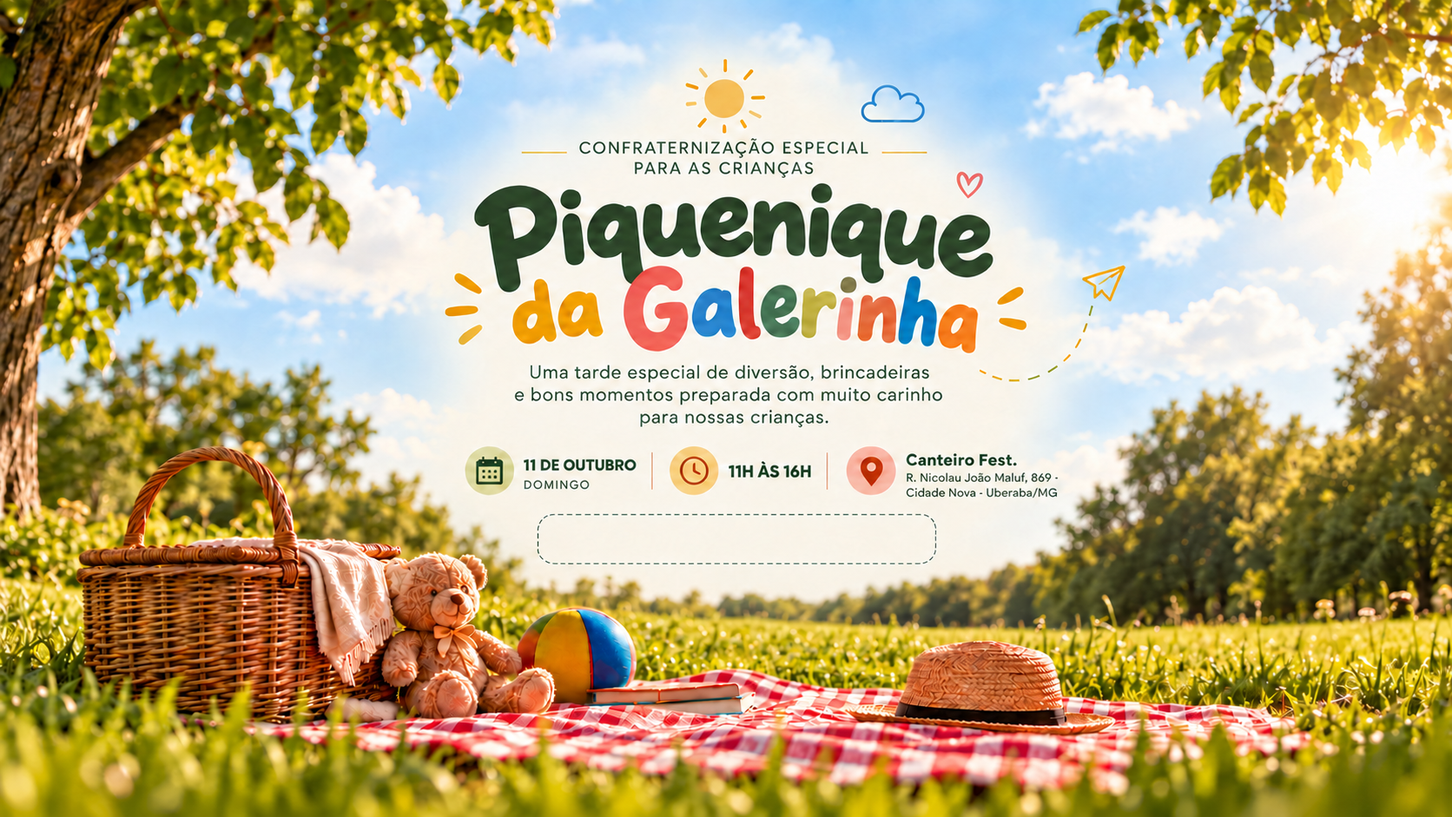
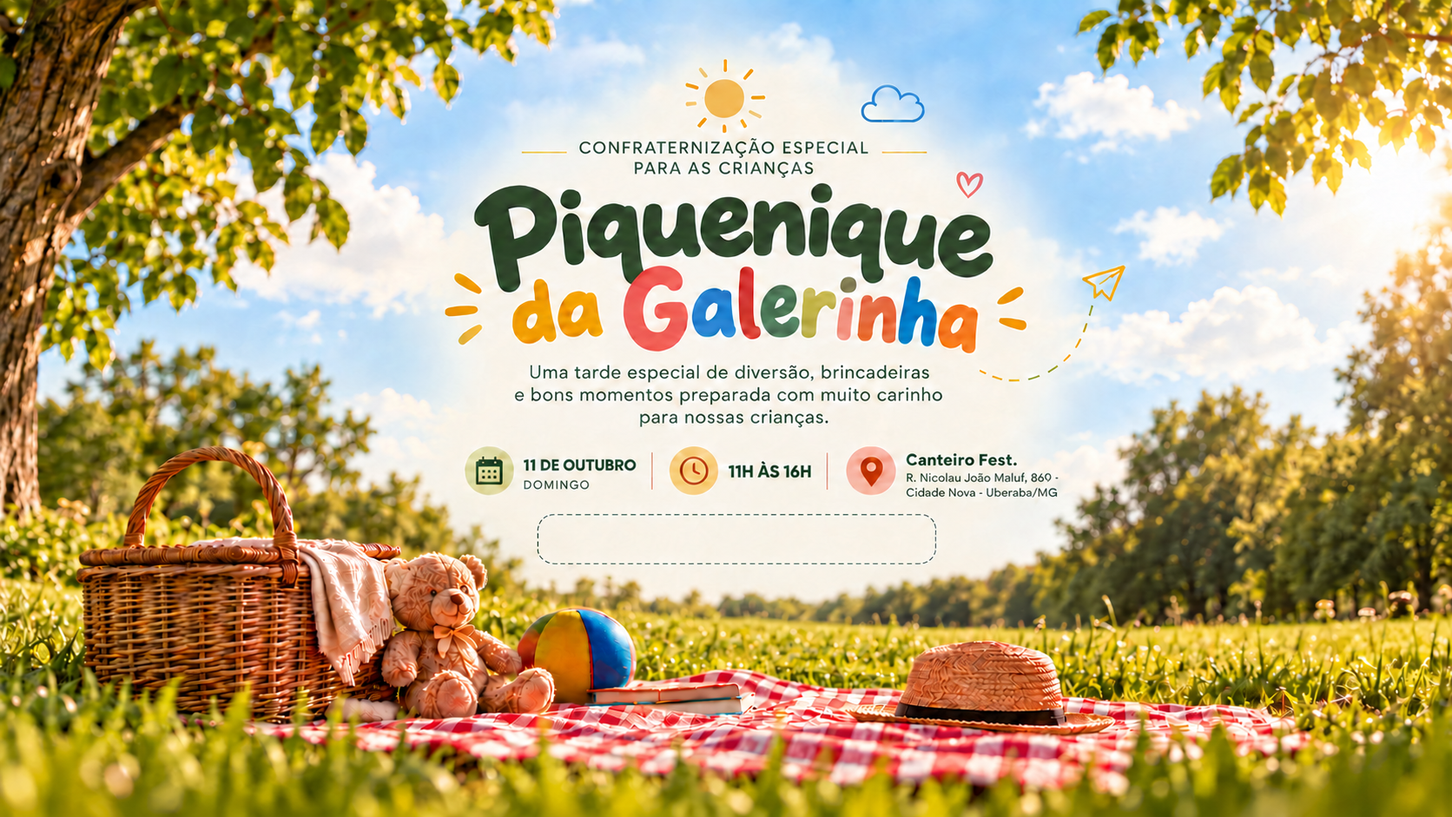
Add files via upload

diff --git a/admin.html b/admin.html
@@ -7,48 +7,163 @@
   <title>Admin | Piquenique da Galerinha</title>
   <link rel="preconnect" href="https://fonts.googleapis.com">
   <link rel="preconnect" href="https://fonts.gstatic.com" crossorigin>
-  <link href="https://fonts.googleapis.com/css2?family=Inter:wght@400;500;600;700;800&amp;family=Nunito:wght@700;800;900&amp;display=swap" rel="stylesheet">
+  <link href="https://fonts.googleapis.com/css2?family=Inter:wght@400;500;600;700&amp;display=swap" rel="stylesheet">
   <style>
     :root{--green:#235b31;--green2:#3c8346;--cream:#fff8e9;--ink:#173b22;--muted:#6d7d70;--line:#dfe8db;--surface:#fffdf8}
-    *{box-sizing:border-box}body{margin:0;min-height:100dvh;background:radial-gradient(circle at 0 0,#fff4ce,transparent 28%),linear-gradient(145deg,#f7f8f0,#eef4e9);color:var(--ink);font-family:Inter,system-ui,sans-serif}
-    button,input{font:inherit}button{cursor:pointer}.page{width:min(1120px,calc(100% - 32px));margin:auto;padding:34px 0 50px}
-    header{display:flex;align-items:center;justify-content:space-between;gap:18px;margin-bottom:25px}.eyebrow{margin:0 0 6px;color:var(--green2);font-size:11px;font-weight:900;letter-spacing:.14em;text-transform:uppercase}h1{margin:0;font:900 clamp(28px,4vw,42px)/1 Nunito,sans-serif}.subtitle{margin:8px 0 0;color:var(--muted);font-size:14px}
-    .export{min-height:44px;padding:0 17px;border:0;border-radius:12px;background:var(--green);color:#fff;font:900 13px Nunito,sans-serif;box-shadow:0 9px 22px rgba(35,91,49,.18)}
-    .stats{display:grid;grid-template-columns:repeat(3,1fr);gap:12px;margin-bottom:18px}.stat{padding:18px;border:1px solid rgba(35,91,49,.08);border-radius:18px;background:rgba(255,253,248,.9);box-shadow:0 10px 30px rgba(35,91,49,.06)}.stat strong{display:block;font:900 32px Nunito,sans-serif;color:var(--green)}.stat span{color:var(--muted);font-size:11px;font-weight:800;text-transform:uppercase;letter-spacing:.08em}
-    .panel{padding:20px;border:1px solid rgba(35,91,49,.09);border-radius:22px;background:var(--surface);box-shadow:0 18px 55px rgba(35,91,49,.08)}
-    .add{display:grid;grid-template-columns:1fr 1fr auto;gap:10px;margin-bottom:18px}.add input{min-width:0;height:48px;padding:0 14px;border:1px solid var(--line);border-radius:12px;background:#fff;outline:0}.add input:focus{border-color:#81a67b;box-shadow:0 0 0 4px rgba(60,131,70,.1)}.add button{padding:0 18px;border:0;border-radius:12px;background:linear-gradient(135deg,var(--green2),var(--green));color:#fff;font:900 13px Nunito,sans-serif}
-    .toolbar{display:flex;align-items:center;justify-content:space-between;gap:12px;margin-bottom:12px}.toolbar h2{margin:0;font:900 20px Nunito,sans-serif}.filter{height:38px;border:1px solid var(--line);border-radius:10px;background:#fff;padding:0 10px;color:var(--ink)}
-    .list{display:grid;gap:8px}.row{display:grid;grid-template-columns:minmax(0,1.2fr) minmax(0,1fr) auto auto;align-items:center;gap:12px;padding:13px;border:1px solid #e7ede3;border-radius:14px;background:#fff}.row strong,.row small{display:block}.row small{margin-top:3px;color:var(--muted);font-size:10px}.status{padding:7px 9px;border-radius:999px;font-size:9px;font-weight:900;text-transform:uppercase}.confirmed{background:#e0f0dc;color:#276037}.pending{background:#fff0bd;color:#78580a}.action{border:0;border-radius:10px;padding:8px 10px;background:#edf4e8;color:var(--green);font-weight:800;font-size:10px}.empty{text-align:center;color:var(--muted);padding:35px 12px}
-    button:focus-visible,input:focus-visible,select:focus-visible{outline:3px solid rgba(244,179,33,.55);outline-offset:2px}
-    @media(max-width:700px){.page{width:min(100% - 20px,560px);padding-top:20px}header{align-items:flex-start}.export{padding:0 12px}.stats{gap:7px}.stat{padding:13px}.stat strong{font-size:25px}.add{grid-template-columns:1fr}.add button{min-height:44px}.panel{padding:14px}.row{grid-template-columns:minmax(0,1fr) auto}.row>div:nth-child(2){grid-column:1}.status{grid-column:2;grid-row:1}.action{grid-column:2;grid-row:2}}
+    *{box-sizing:border-box}body{margin:0;min-height:100dvh;background:radial-gradient(circle at 0 0,#fff4ce,transparent 28%),linear-gradient(145deg,#f7f8f0,#eef4e9);color:var(--ink);font-family:Inter,system-ui,sans-serif;font-weight:400;-webkit-font-smoothing:antialiased}
+    button,input{font:inherit}button{cursor:pointer}.page{width:min(1040px,calc(100% - 40px));margin:auto;padding:36px 0 52px}
+    header{position:relative;display:flex;align-items:center;justify-content:center;gap:20px;margin-bottom:24px;text-align:center}.header-copy{max-width:680px}.eyebrow{margin:0 0 7px;color:var(--green2);font-size:11px;font-weight:600;letter-spacing:.13em;text-transform:uppercase}h1{margin:0;font-size:clamp(28px,4vw,38px);line-height:1.15;font-weight:600;letter-spacing:-.035em}.subtitle{margin:9px 0 0;color:var(--muted);font-size:14px;line-height:1.55}
+    .stats{display:grid;grid-template-columns:repeat(2,minmax(0,1fr));gap:14px;max-width:780px;margin:0 auto 18px}.stat{min-height:98px;display:grid;place-content:center;text-align:center;gap:5px;padding:16px;border:1px solid rgba(35,91,49,.08);border-radius:16px;background:rgba(255,253,248,.92);box-shadow:0 8px 24px rgba(35,91,49,.05)}.stat strong{display:block;color:var(--green);font-size:30px;line-height:1.1;font-weight:600;font-variant-numeric:tabular-nums}.stat span{color:var(--muted);font-size:10px;font-weight:600;text-transform:uppercase;letter-spacing:.09em}
+    .panel{padding:22px;border:1px solid rgba(35,91,49,.09);border-radius:20px;background:var(--surface);box-shadow:0 16px 44px rgba(35,91,49,.07)}
+    .add{display:grid;grid-template-columns:minmax(0,1fr) minmax(0,1fr) auto;gap:10px;margin-bottom:22px}.add input{min-width:0;height:48px;padding:0 14px;border:1px solid var(--line);border-radius:11px;background:#fff;color:var(--ink);font-size:14px;outline:0}.add input::placeholder{color:#7c877e}.add input:focus{border-color:#81a67b;box-shadow:0 0 0 4px rgba(60,131,70,.1)}.add button{min-height:48px;padding:0 17px;border:0;border-radius:11px;background:linear-gradient(135deg,var(--green2),var(--green));color:#fff;font-size:13px;font-weight:600}
+    .toolbar{display:flex;align-items:center;justify-content:center;margin-bottom:12px;text-align:center}.toolbar h2{margin:0;font-size:19px;font-weight:600;letter-spacing:-.02em}
+    .list{display:grid;gap:9px}.row{display:grid;grid-template-columns:minmax(0,1.1fr) minmax(0,1fr) auto auto;align-items:center;gap:14px;padding:14px 16px;border:1px solid #e7ede3;border-radius:13px;background:#fff}.row strong,.row small{display:block}.row strong{font-size:14px;font-weight:500;line-height:1.4;overflow-wrap:anywhere}.row small{margin-top:4px;color:var(--muted);font-size:11px;line-height:1.4}.status{padding:7px 9px;border-radius:999px;font-size:9px;font-weight:600;text-transform:uppercase;letter-spacing:.035em;white-space:nowrap}.confirmed{background:#e0f0dc;color:#276037}.pending{background:#fff0bd;color:#78580a}.action{min-height:34px;border:0;border-radius:9px;padding:0 11px;background:#edf4e8;color:var(--green);font-weight:500;font-size:11px;white-space:nowrap}.empty{text-align:center;color:var(--muted);padding:35px 12px;font-size:14px}
+    button:focus-visible,input:focus-visible{outline:3px solid rgba(244,179,33,.55);outline-offset:2px}
+    @media(max-width:700px){.page{width:min(100% - 24px,560px);padding:24px 0 36px}header{display:grid;gap:12px;margin-bottom:20px}.subtitle{font-size:13px}.stats{gap:9px;margin-bottom:14px}.stat{min-height:86px;padding:12px}.stat strong{font-size:26px}.panel{padding:16px;border-radius:17px}.add{grid-template-columns:1fr;gap:9px;margin-bottom:20px}.add input{height:46px}.add button{min-height:46px}.row{grid-template-columns:minmax(0,1fr) auto;gap:10px 12px;padding:13px}.row>div:nth-child(2){grid-column:1}.status{grid-column:2;grid-row:1;justify-self:end}.action{grid-column:2;grid-row:2;justify-self:end}}
+    @media(max-width:360px){.page{width:calc(100% - 18px)}.stat{padding:10px}.panel{padding:12px}.row{gap:9px;padding:11px}.action{padding:0 8px;font-size:10px}}
+  
+    .actions{display:flex;gap:7px;align-items:center}.delete-action{background:#fff0ef;color:#a13b35}.delete-action:hover{background:#ffe3e0}
   </style>
 </head>
 <body>
-  <main class="page">
-    <header><div><p class="eyebrow">Área administrativa</p><h1>Lista de presença</h1><p class="subtitle">Gerencie convidados e acompanhe os horários das confirmações.</p></div><button class="export" id="exportCsv" type="button">Exportar CSV</button></header>
-    <section class="stats"><div class="stat"><strong id="totalCount">0</strong><span>Total</span></div><div class="stat"><strong id="confirmedCount">0</strong><span>Confirmados</span></div><div class="stat"><strong id="pendingCount">0</strong><span>Pendentes</span></div></section>
+  <main class="page" id="adminView">
+    <header><div class="header-copy"><p class="eyebrow">Área administrativa</p><h1>Lista de presença</h1><p class="subtitle">Gerencie convidados e acompanhe os horários das confirmações.</p></div></header>
+    <section class="stats"><div class="stat"><strong id="totalCount">0</strong><span>Total de convidados</span></div><div class="stat"><strong id="confirmedCount">0</strong><span>Presenças confirmadas</span></div></section>
     <section class="panel">
       <form class="add" id="guestForm"><input id="guestChild" type="text" placeholder="Nome da criança" required><input id="guestResponsible" type="text" placeholder="Nome do responsável" required><button type="submit">Adicionar convidado</button></form>
-      <div class="toolbar"><h2>Convidados</h2><select class="filter" id="statusFilter" aria-label="Filtrar convidados"><option value="all">Todos</option><option value="confirmed">Confirmados</option><option value="pending">Pendentes</option></select></div>
+      <div class="toolbar"><h2>Convidados</h2></div>
       <div class="list" id="adminList"></div>
     </section>
   </main>
+  <script src="https://www.gstatic.com/firebasejs/10.14.1/firebase-app-compat.js"></script>
+  <script src="https://www.gstatic.com/firebasejs/10.14.1/firebase-firestore-compat.js"></script>
+  <script src="config.js"></script>
   <script>
-    const STORE_KEY='piquenique_convidados';
-    const list=document.querySelector('#adminList');
-    const getGuests=()=>JSON.parse(localStorage.getItem(STORE_KEY)||'[]');
-    const saveGuests=guests=>localStorage.setItem(STORE_KEY,JSON.stringify(guests));
-    const formatDate=value=>value?new Intl.DateTimeFormat('pt-BR',{dateStyle:'short',timeStyle:'short'}).format(new Date(value)):'Aguardando confirmação';
-    function render(){
-      const all=getGuests();const filter=document.querySelector('#statusFilter').value;const guests=all.filter(item=>filter==='all'||item.status===filter).sort((a,b)=>a.status===b.status?a.childName.localeCompare(b.childName,'pt-BR'):a.status==='pending'?-1:1);const confirmed=all.filter(item=>item.status==='confirmed').length;
-      document.querySelector('#totalCount').textContent=all.length;document.querySelector('#confirmedCount').textContent=confirmed;document.querySelector('#pendingCount').textContent=all.length-confirmed;list.replaceChildren();
-      if(!guests.length){const empty=document.createElement('div');empty.className='empty';empty.textContent='Nenhum convidado neste filtro.';list.append(empty);return}
-      guests.forEach(guest=>{const row=document.createElement('article');row.className='row';const child=document.createElement('div');child.innerHTML='<strong></strong><small></small>';child.querySelector('strong').textContent=guest.childName;child.querySelector('small').textContent=formatDate(guest.confirmedAt);const responsible=document.createElement('div');responsible.innerHTML='<strong></strong><small>Responsável</small>';responsible.querySelector('strong').textContent=guest.responsibleName;const status=document.createElement('span');status.className=`status ${guest.status}`;status.textContent=guest.status==='confirmed'?'Confirmado':'Pendente';const action=document.createElement('button');action.className='action';action.type='button';action.textContent=guest.status==='confirmed'?'Tornar pendente':'Confirmar';action.onclick=()=>{saveGuests(getGuests().map(item=>item.id===guest.id?{...item,status:item.status==='confirmed'?'pending':'confirmed',confirmedAt:item.status==='confirmed'?null:new Date().toISOString()}:item));render()};row.append(child,responsible,status,action);list.append(row)})
+    firebase.initializeApp(firebaseConfig);
+
+    const db = firebase.firestore();
+    const list = document.querySelector('#adminList');
+    let cachedGuests = [];
+    let unsubGuests = null;
+    let unsubConfirmations = null;
+    let guestRows = [];
+    let confirmationRows = [];
+
+    const normalize=value=>String(value||'').normalize('NFD').replace(/[\u0300-\u036f]/g,'').trim().toLowerCase().replace(/\s+/g,' ');
+    const formatDate=value=>{
+      if(!value) return 'Aguardando confirmação';
+      const date=value.toDate ? value.toDate() : new Date(value);
+      return new Intl.DateTimeFormat('pt-BR',{dateStyle:'short',timeStyle:'short'}).format(date);
+    };
+
+    function rebuildCache(){
+      const confirmationsByKey=new Map();
+      confirmationRows.forEach(item=>{
+        const key=`${normalize(item.childName)}|${normalize(item.responsibleName)}`;
+        const prev=confirmationsByKey.get(key);
+        const time=item.confirmedAt?.toMillis?.() || 0;
+        const prevTime=prev?.confirmedAt?.toMillis?.() || 0;
+        if(!prev || time>=prevTime) confirmationsByKey.set(key,item);
+      });
+
+      const guestKeys=new Set();
+      const merged=guestRows.map(item=>{
+        const key=`${normalize(item.childName)}|${normalize(item.responsibleName)}`;
+        guestKeys.add(key);
+        const confirmation=confirmationsByKey.get(key);
+        if(confirmation){
+          return {...item,status:'confirmed',confirmedAt:confirmation.confirmedAt,confirmationId:confirmation.id};
+        }
+        return item;
+      });
+
+      confirmationsByKey.forEach((confirmation,key)=>{
+        if(!guestKeys.has(key)) merged.push({
+          id:`confirmation:${confirmation.id}`,
+          confirmationId:confirmation.id,
+          childName:confirmation.childName,
+          responsibleName:confirmation.responsibleName,
+          status:'confirmed',
+          confirmedAt:confirmation.confirmedAt,
+          fromConfirmation:true
+        });
+      });
+
+      cachedGuests=merged;
+      render();
     }
-    document.querySelector('#guestForm').addEventListener('submit',event=>{event.preventDefault();const childName=document.querySelector('#guestChild').value.trim();const responsibleName=document.querySelector('#guestResponsible').value.trim();if(!childName||!responsibleName)return;const guests=getGuests();guests.push({id:crypto.randomUUID(),childName,responsibleName,status:'pending',confirmedAt:null});saveGuests(guests);event.currentTarget.reset();render()});
-    document.querySelector('#statusFilter').addEventListener('change',render);
-    document.querySelector('#exportCsv').addEventListener('click',()=>{const quote=value=>`"${String(value??'').replace(/"/g,'""')}"`;const rows=[['Criança','Responsável','Status','Confirmado em'],...getGuests().map(item=>[item.childName,item.responsibleName,item.status==='confirmed'?'Confirmado':'Pendente',item.confirmedAt?formatDate(item.confirmedAt):''])];const blob=new Blob(['\uFEFF'+rows.map(row=>row.map(quote).join(';')).join('\r\n')],{type:'text/csv;charset=utf-8'});const link=document.createElement('a');link.href=URL.createObjectURL(blob);link.download='lista-presenca-piquenique.csv';link.click();URL.revokeObjectURL(link.href)});
-    render();
+
+    function render(){
+      const all=cachedGuests;
+      const guests=[...all].sort((a,b)=>a.status===b.status?a.childName.localeCompare(b.childName,'pt-BR'):a.status==='pending'?-1:1);
+      const confirmed=all.filter(item=>item.status==='confirmed').length;
+      document.querySelector('#totalCount').textContent=all.length;
+      document.querySelector('#confirmedCount').textContent=confirmed;
+      list.replaceChildren();
+      if(!guests.length){const empty=document.createElement('div');empty.className='empty';empty.textContent='Nenhum convidado cadastrado.';list.append(empty);return}
+      guests.forEach(guest=>{
+        const row=document.createElement('article');row.className='row';
+        const child=document.createElement('div');child.innerHTML='<strong></strong><small></small>';child.querySelector('strong').textContent=guest.childName;child.querySelector('small').textContent=formatDate(guest.confirmedAt);
+        const responsible=document.createElement('div');responsible.innerHTML='<strong></strong><small>Responsável</small>';responsible.querySelector('strong').textContent=guest.responsibleName;
+        const status=document.createElement('span');status.className=`status ${guest.status}`;status.textContent=guest.status==='confirmed'?'Confirmado':'Pendente';
+        const actions=document.createElement('div');actions.className='actions';
+        const action=document.createElement('button');action.className='action';action.type='button';action.textContent=guest.status==='confirmed'?'Tornar pendente':'Confirmar';
+        action.onclick=async()=>{
+          try{
+            if(guest.status==='confirmed'){
+              if(guest.confirmationId) await db.collection('confirmations').doc(guest.confirmationId).delete();
+              if(!guest.fromConfirmation) await db.collection('guests').doc(guest.id).set({status:'pending',confirmedAt:null,updatedAt:firebase.firestore.FieldValue.serverTimestamp()},{merge:true});
+            }else{
+              await db.collection('guests').doc(guest.id).set({status:'confirmed',confirmedAt:firebase.firestore.FieldValue.serverTimestamp(),updatedAt:firebase.firestore.FieldValue.serverTimestamp()},{merge:true});
+              guestRows=guestRows.map(item=>item.id===guest.id?{...item,status:'confirmed',confirmedAt:new Date()}:item);
+              rebuildCache();
+            }
+          }catch(error){alert('Não foi possível atualizar.');console.error(error)}
+        };
+        const del=document.createElement('button');del.className='action delete-action';del.type='button';del.textContent='Excluir';
+        del.onclick=async()=>{
+          if(!confirm(`Excluir ${guest.childName} da lista?`)) return;
+          try{
+            const jobs=[];
+            if(guest.confirmationId) jobs.push(db.collection('confirmations').doc(guest.confirmationId).delete());
+            if(!guest.fromConfirmation && !String(guest.id).startsWith('confirmation:')) jobs.push(db.collection('guests').doc(guest.id).delete());
+            await Promise.all(jobs);
+          }catch(error){alert('Não foi possível excluir o convidado.');console.error(error)}
+        };
+        actions.append(action,del);
+        row.append(child,responsible,status,actions);list.append(row);
+      });
+    }
+
+    function startRealtime(){
+      stopRealtime();
+      unsubGuests=db.collection('guests').orderBy('createdAt','asc').onSnapshot(snapshot=>{
+        guestRows=snapshot.docs.map(doc=>({id:doc.id,...doc.data()}));
+        rebuildCache();
+      },error=>{console.error(error);list.innerHTML='<div class="empty">Erro ao carregar convidados.</div>'});
+      unsubConfirmations=db.collection('confirmations').orderBy('createdAt','asc').onSnapshot(snapshot=>{
+        confirmationRows=snapshot.docs.map(doc=>({id:doc.id,...doc.data()}));
+        rebuildCache();
+      },error=>console.error(error));
+    }
+
+    function stopRealtime(){
+      if(unsubGuests){unsubGuests();unsubGuests=null}
+      if(unsubConfirmations){unsubConfirmations();unsubConfirmations=null}
+    }
+
+    document.querySelector('#guestForm').addEventListener('submit',async event=>{
+      event.preventDefault();
+      const childName=document.querySelector('#guestChild').value.trim();
+      const responsibleName=document.querySelector('#guestResponsible').value.trim();
+      if(!childName||!responsibleName)return;
+      try{
+        await db.collection('guests').add({childName,responsibleName,status:'pending',confirmedAt:null,createdAt:firebase.firestore.FieldValue.serverTimestamp(),updatedAt:firebase.firestore.FieldValue.serverTimestamp()});
+        event.currentTarget.reset();
+      }catch(error){alert('Não foi possível adicionar.');console.error(error)}
+    });
+
+    startRealtime();
   </script>
 </body>
 </html>

diff --git a/index.html b/index.html
@@ -292,7 +292,7 @@
     .success-location:hover .success-location-arrow{transform:translateX(2px);background:#e8f1e3}
 
     .celebration-layer{position:fixed;inset:0;z-index:140;overflow:hidden;pointer-events:none}
-    .celebration-piece{position:absolute;left:var(--start-x);top:-18vh;width:var(--size);height:var(--size);object-fit:contain;opacity:0;will-change:transform,opacity;backface-visibility:hidden;contain:strict;transform:translate3d(0,-18vh,0);animation:imageRain var(--duration) linear var(--delay) both}
+    .celebration-piece{position:absolute;left:var(--start-x);top:-18vh;width:clamp(96px,7vw,128px);height:clamp(96px,7vw,128px);object-fit:contain;opacity:0;will-change:transform,opacity;backface-visibility:hidden;contain:strict;transform:translate3d(0,-18vh,0);animation:imageRain var(--duration) linear var(--delay) both}
 
     @keyframes fade{from{opacity:0}to{opacity:1}}
     @keyframes pop{from{opacity:0;transform:translateY(16px) scale(.97)}to{opacity:1;transform:none}}
@@ -364,7 +364,7 @@
 
     <div class="interaction-plane">
     <a class="venue-card"
-       href="https://www.google.com/maps/search/?api=1&query=R.%20Nicolau%20Jo%C3%A3o%20Maluf%2C%20869%20-%20Cidade%20Nova%2C%20Uberaba%20-%20MG%2C%2038082-365"
+       href="https://www.google.com/maps/search/?api=1&query=R.%20Nicolau%20Jo%C3%A3o%20Maluf%2C%20860%20-%20Cidade%20Nova%2C%20Uberaba%20-%20MG%2C%2038082-365"
        target="_blank"
        rel="noopener noreferrer"
        aria-label="Abrir Canteiro Fest. no Google Maps">
@@ -410,9 +410,9 @@
         <div class="check"><svg aria-hidden="true" viewBox="0 0 24 24" fill="none" stroke="currentColor" stroke-linecap="round" stroke-linejoin="round"><path d="m5 12 4 4L19 6"/></svg></div>
         <h2>Presença confirmada!</h2>
         <p id="successMessage">Tudo certo. Esperamos vocês!</p>
-        <a class="success-location" href="https://www.google.com/maps/search/?api=1&query=R.%20Nicolau%20Jo%C3%A3o%20Maluf%2C%20869%20-%20Cidade%20Nova%2C%20Uberaba%20-%20MG%2C%2038082-365" target="_blank" rel="noopener noreferrer" aria-label="Abrir o local do evento no Google Maps">
+        <a class="success-location" href="https://www.google.com/maps/search/?api=1&query=R.%20Nicolau%20Jo%C3%A3o%20Maluf%2C%20860%20-%20Cidade%20Nova%2C%20Uberaba%20-%20MG%2C%2038082-365" target="_blank" rel="noopener noreferrer" aria-label="Abrir o local do evento no Google Maps">
           <span class="success-location-icon" aria-hidden="true"><svg viewBox="0 0 24 24" fill="currentColor"><path d="M12 2a7 7 0 0 0-7 7c0 5.25 7 13 7 13s7-7.75 7-13a7 7 0 0 0-7-7Zm0 9.5A2.5 2.5 0 1 1 12 6a2.5 2.5 0 0 1 0 5.5Z"/></svg></span>
-          <span class="success-location-copy"><small>Local do evento</small><strong>Canteiro Fest.</strong><span>R. Nicolau João Maluf, 869 · Cidade Nova, Uberaba/MG</span></span>
+          <span class="success-location-copy"><small>Local do evento</small><strong>Canteiro Fest.</strong><span>R. Nicolau João Maluf, 860 · Cidade Nova, Uberaba/MG</span></span>
           <span class="success-location-arrow" aria-hidden="true"><svg viewBox="0 0 24 24" fill="none" stroke="currentColor" stroke-width="2.2" stroke-linecap="round" stroke-linejoin="round"><path d="M5 12h14"/><path d="m13 6 6 6-6 6"/></svg></span>
         </a>
         <button class="submit" id="finish" type="button">Fechar</button>
@@ -420,7 +420,13 @@
     </div>
   </section>
 
+  <script src="https://www.gstatic.com/firebasejs/10.14.1/firebase-app-compat.js"></script>
+  <script src="https://www.gstatic.com/firebasejs/10.14.1/firebase-firestore-compat.js"></script>
+  <script src="config.js"></script>
   <script>
+    firebase.initializeApp(firebaseConfig);
+    const db = firebase.firestore();
+
     const modal = document.querySelector('#modal');
     const open = document.querySelector('#openModal');
     const close = document.querySelector('#closeModal');
@@ -429,7 +435,6 @@
     const success = document.querySelector('#success');
     const message = document.querySelector('#successMessage');
     const celebrationLayer = document.querySelector('#celebrationLayer');
-    const STORE_KEY = 'piquenique_convidados';
     const celebrationAssets = [
       {src:'assets/celebration/bola-anim.png',type:'ball'},
       {src:'assets/celebration/bola-listrada-anim.png',type:'ball'},
@@ -440,42 +445,27 @@
       {src:'assets/celebration/pipa-anim.png',type:'kite'},
       {src:'assets/celebration/pipa-rabiola-anim.png',type:'kite'},
       {src:'assets/celebration/pipa-sol-anim.png',type:'kite'},
-      {src:'assets/celebration/ursinho-anim.png',type:'bear'}
+      {src:'assets/celebration/ursinho-anim.png',type:'bear'},
+      {src:'assets/celebration/pirulito-anim.png',type:'candy'},
+      {src:'assets/celebration/bala-anim.png',type:'candy'},
+      {src:'assets/celebration/bombom-anim.png',type:'candy'},
+      {src:'assets/celebration/picole-anim.png',type:'candy'}
     ];
     const celebrationReady=Promise.all(celebrationAssets.map(asset=>new Promise(resolve=>{const image=new Image();image.onload=()=>image.decode?image.decode().catch(()=>{}).finally(resolve):resolve();image.onerror=resolve;image.src=asset.src})));
-
-    function normalize(value){
-      return value.trim().toLocaleLowerCase('pt-BR').normalize('NFD').replace(/[\u0300-\u036f]/g,'');
-    }
-
-    function getGuests(){
-      const saved = JSON.parse(localStorage.getItem(STORE_KEY) || '[]');
-      if(saved.length) return saved;
-      const legacy = JSON.parse(localStorage.getItem('piquenique_confirmacoes') || '[]');
-      const migrated = legacy.map((item,index)=>({id:`legacy-${index}-${Date.now()}`,childName:item.childName,responsibleName:item.responsibleName,status:'confirmed',confirmedAt:item.confirmedAt || new Date().toISOString()}));
-      if(migrated.length) localStorage.setItem(STORE_KEY,JSON.stringify(migrated));
-      return migrated;
-    }
-
-    function saveGuests(guests){ localStorage.setItem(STORE_KEY,JSON.stringify(guests)); }
 
     async function launchCelebration(){
       if(window.matchMedia('(prefers-reduced-motion: reduce)').matches) return;
       await celebrationReady;
       celebrationLayer.replaceChildren();
       const fragment=document.createDocumentFragment();
-      for(let index=0;index<24;index++){
+      for(let index=0;index<28;index++){
         const piece=document.createElement('img');
         const asset=celebrationAssets[index%celebrationAssets.length];
         piece.className='celebration-piece';
         piece.src=asset.src;
         piece.alt='';
-        const sizeRoll=Math.random();
-        const baseSize=sizeRoll>.9?68+Math.random()*16:sizeRoll>.42?38+Math.random()*18:22+Math.random()*13;
-        const size=asset.type==='kite'?baseSize*1.08:asset.type==='bear'?baseSize*.88:baseSize;
         piece.style.setProperty('--start-x',`${2+Math.random()*94}vw`);
         piece.style.setProperty('--drift',`${(Math.random()-.5)*16}vw`);
-        piece.style.setProperty('--size',`${size}px`);
         piece.style.setProperty('--delay',`${Math.random()*1.65}s`);
         piece.style.setProperty('--duration',`${3.8+Math.random()*1.45}s`);
         piece.style.setProperty('--rotate-start',`${-25+Math.random()*50}deg`);
@@ -511,29 +501,36 @@
       if(e.key === 'Escape' && modal.classList.contains('open')) hideModal();
     });
 
-    form.addEventListener('submit', e => {
+    form.addEventListener('submit', async e => {
       e.preventDefault();
 
       const childName = document.querySelector('#childName').value.trim();
       const responsibleName = document.querySelector('#responsibleName').value.trim();
       if(!childName || !responsibleName) return;
 
-      /*
-        DEMONSTRAÇÃO:
-        Neste HTML, a confirmação é salva localmente.
-        Depois basta trocar este trecho pelo INSERT no Supabase.
-      */
-      const guests = getGuests();
-      const match = guests.find(item=>item.status==='pending' && (normalize(item.childName)===normalize(childName) || normalize(item.responsibleName)===normalize(responsibleName)));
-      if(match){
-        match.childName=childName;
-        match.responsibleName=responsibleName;
-        match.status='confirmed';
-        match.confirmedAt=new Date().toISOString();
-      }else{
-        guests.push({id:crypto.randomUUID(),childName,responsibleName,status:'confirmed',confirmedAt:new Date().toISOString()});
+      const submitButton = form.querySelector('.submit');
+      const originalText = submitButton.textContent;
+      submitButton.disabled = true;
+      submitButton.textContent = 'Confirmando...';
+
+      try {
+        await db.collection('confirmations').add({
+          childName,
+          responsibleName,
+          status: 'confirmed',
+          confirmedAt: firebase.firestore.FieldValue.serverTimestamp(),
+          createdAt: firebase.firestore.FieldValue.serverTimestamp()
+        });
+      } catch (error) {
+        console.error(error);
+        submitButton.disabled = false;
+        submitButton.textContent = originalText;
+        alert('Não foi possível confirmar agora. Verifique a conexão e tente novamente.');
+        return;
       }
-      saveGuests(guests);
+
+      submitButton.disabled = false;
+      submitButton.textContent = originalText;
 
       message.textContent = `${childName} está confirmado(a). Obrigado, ${responsibleName}!`;
       form.classList.add('hide');
